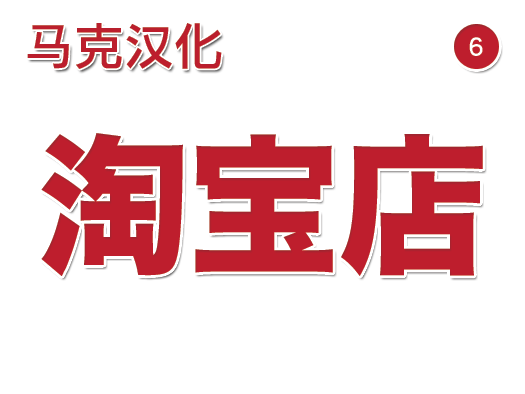
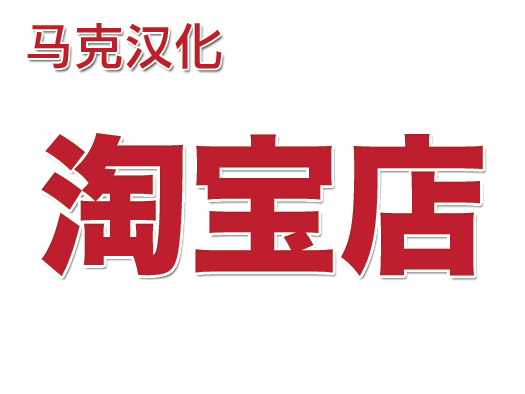
some decorations

Changed region(s): [[0.8533, 0.0609, 0.9752, 0.1827]]

diff --git a/public/stylesheets/mak.css b/public/stylesheets/mak.css
@@ -11,6 +11,10 @@ body {
   -webkit-box-shadow:inset 0px 3px 5px -2px #555555, inset 0px -3px 5px -2px #555555;
 }
 
+#content a {
+  text-decoration:none;
+}
+
 #top, #bottom {
   width:806px;
   padding:10px 0;
@@ -101,14 +105,15 @@ body {
 }
 
 .artist:hover h1, .video:hover h1 {
-  margin-top:80px;
   width:252px;
-  height:30px;
-  line-height:30px;
+  height:40px;
+  line-height:40px;
   font-size:22px;
   text-align:center;
-  position:absolute;
+  top:48px;
+  position:relative;
   background:#000000;
+  opacity:0.6;
   color:#ffffff;
 }
 
@@ -121,4 +126,23 @@ body {
 .artist span, .video span {
   position:relative;
   bottom:80px;
+}
+
+.count {
+  position:relative;
+  float:right;
+  top:-10px;
+  right:-10px;
+  width:27px;
+  height:27px;
+  line-height:27px;
+  border: 2px solid #ffffff;
+  border-radius:16px;
+  background:#c41104;
+  color:#ffffff;
+  font-size:18px;
+  font-family:sans-serif;
+  text-align:center;
+  box-shadow:0 0 6px #000000;
+  -webkit-box-shadow:0 0 6px #000000;
 }
